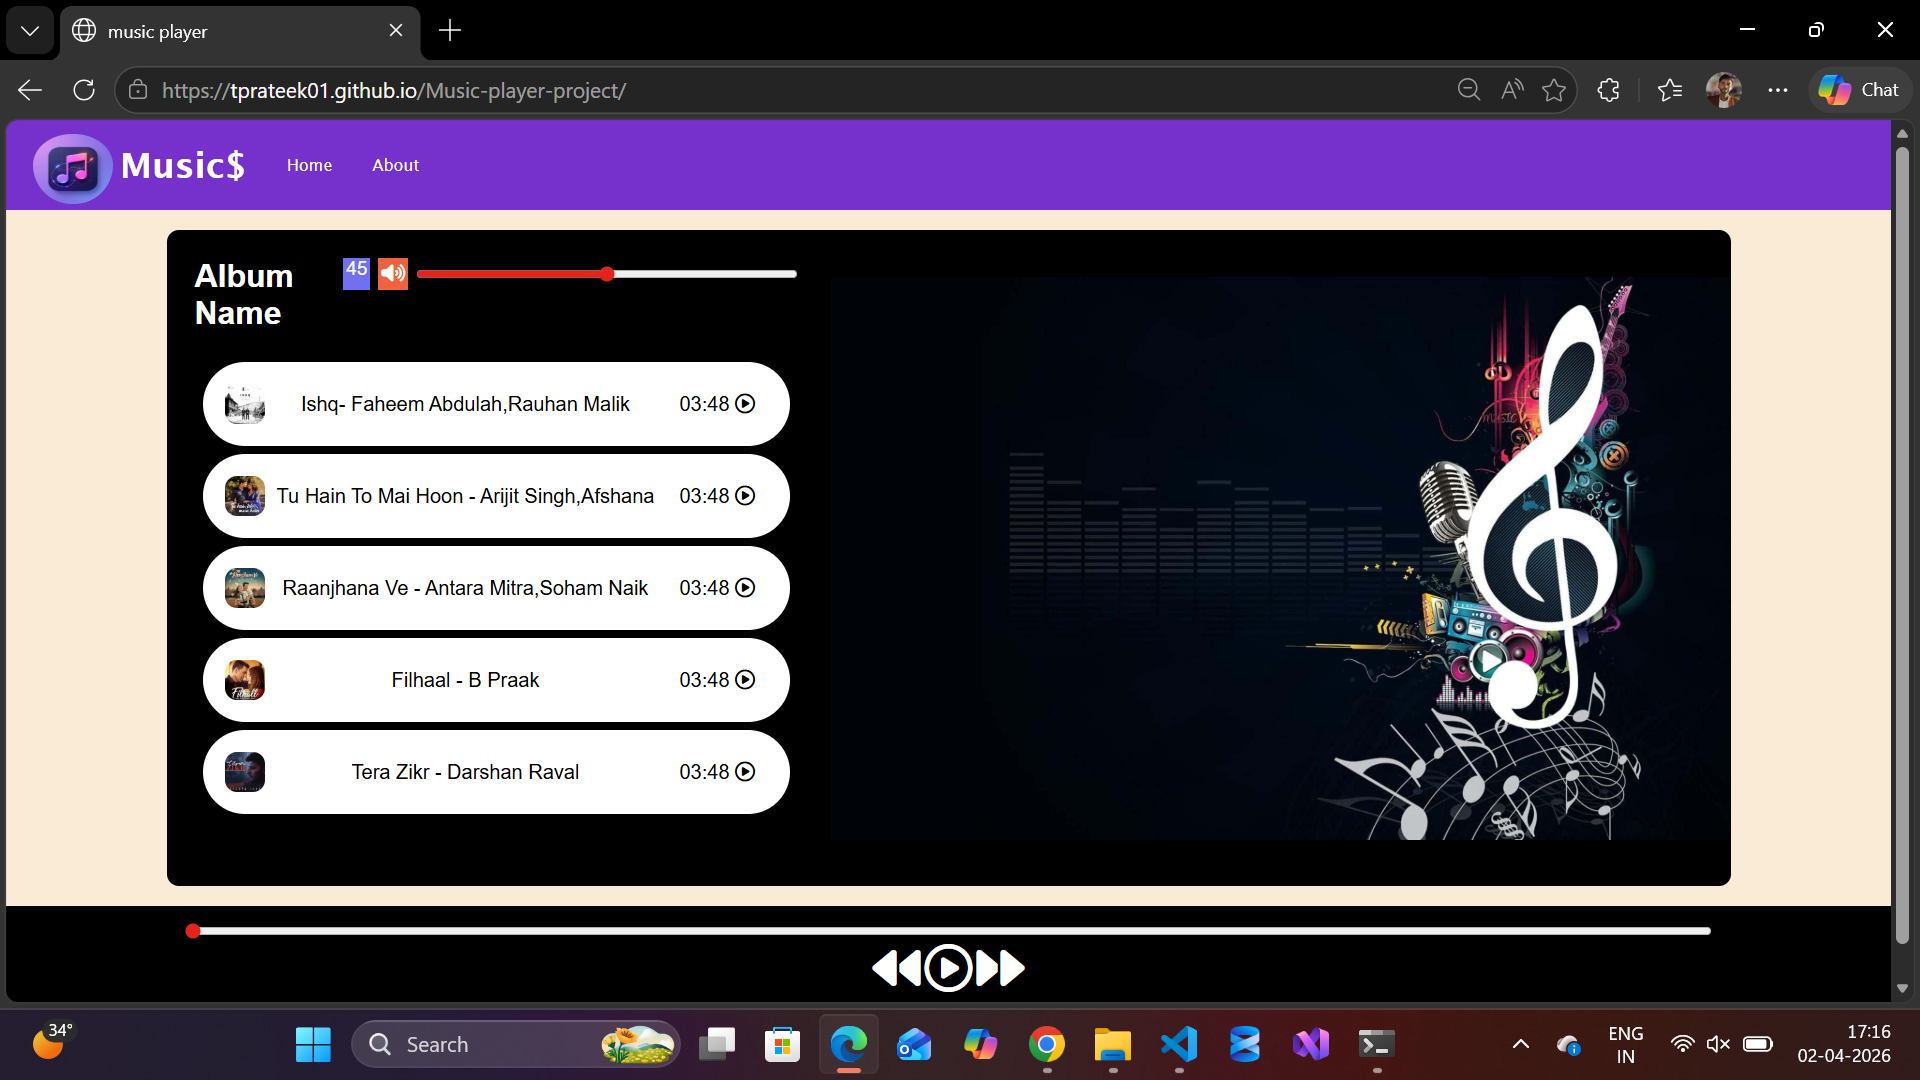
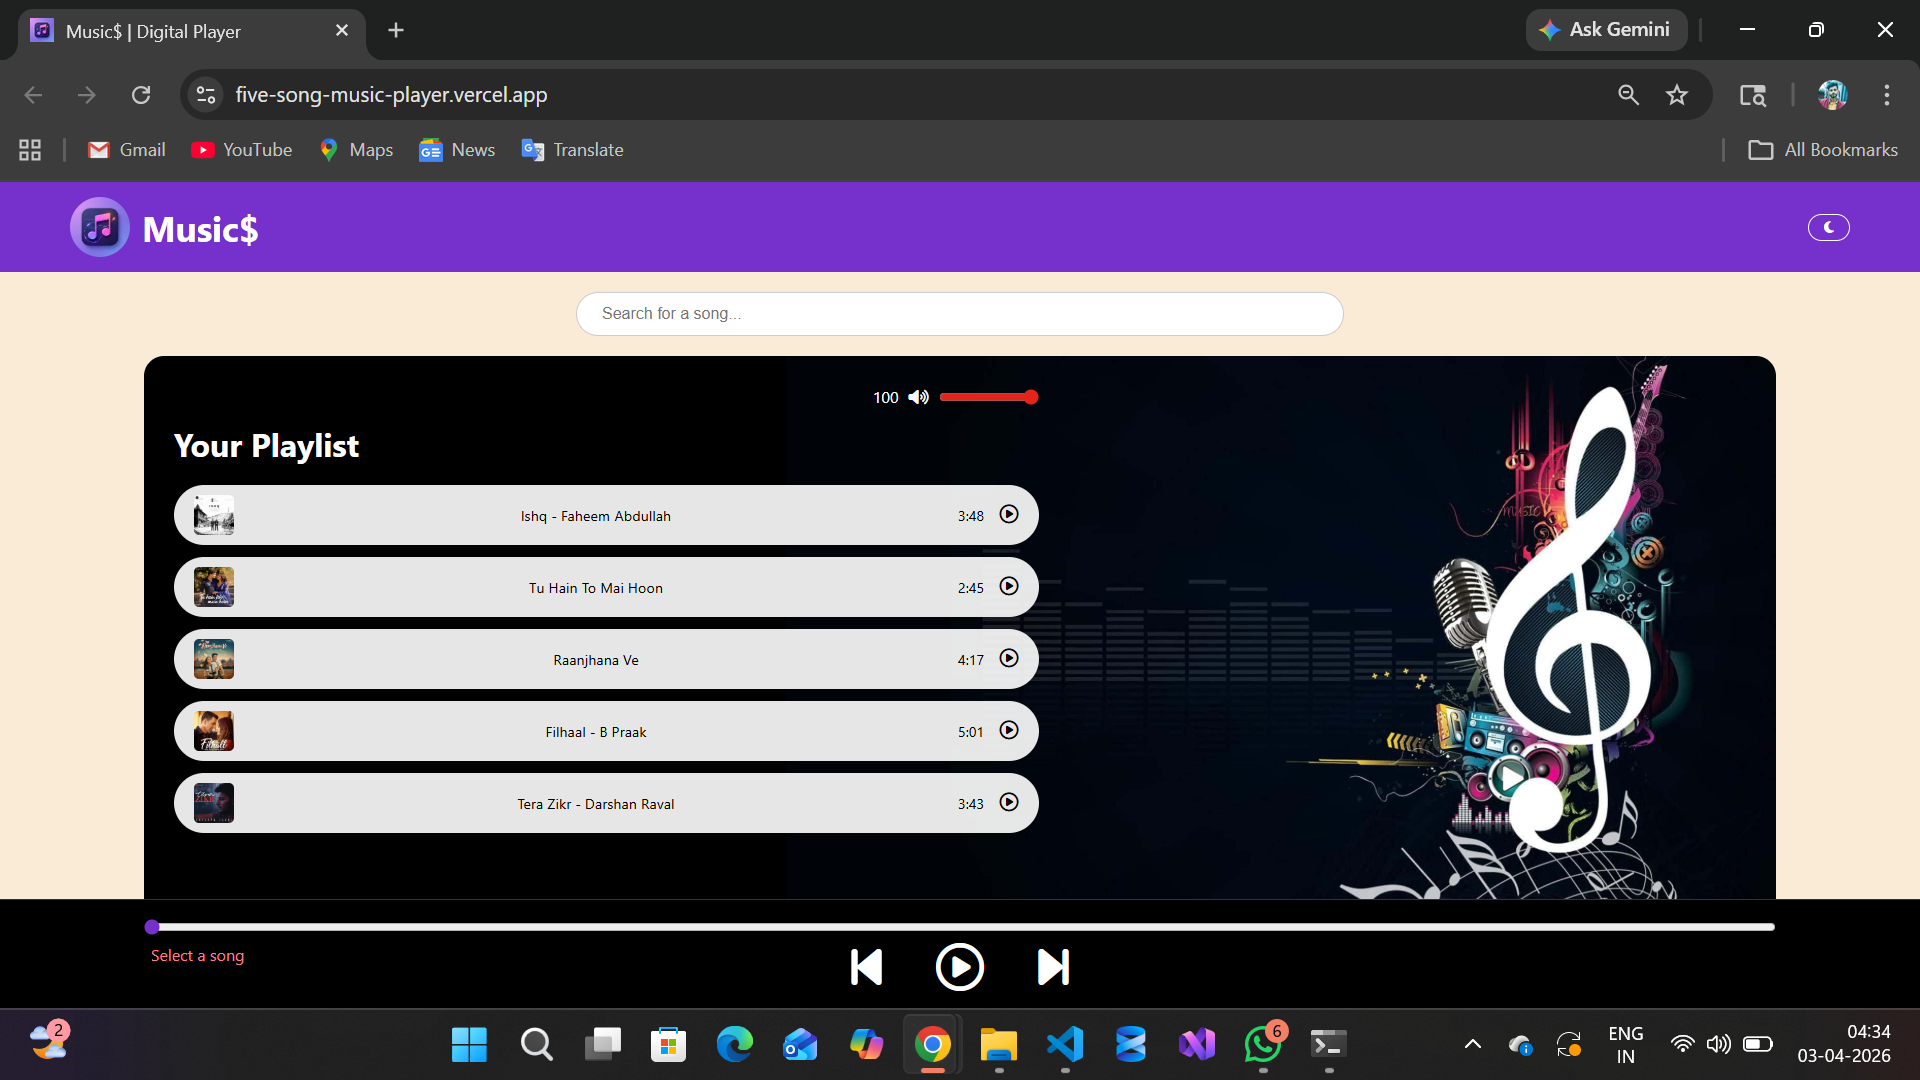
Images and links changed of projects

diff --git a/src/sections/Projects.jsx b/src/sections/Projects.jsx
@@ -13,10 +13,10 @@ const Projects = () => {
       tags: ["React.js", "MongoDB", "Node.js", "Express.js"] 
     },
     {
-      title: "Calculator Pro",
+      title: "Basic Calculator",
       description: "A sleek, functional basic calculator built with HTML, CSS, and JavaScript. Features a clean UI and responsive design.",
       githubLink: "https://github.com/tprateek01/calculator-pro",
-      liveLink: "https://tprateek01.github.io/calculator-pro/",
+      liveLink: "https://basic-functionality-calculator.vercel.app/",
       image: "/project-images/Calculator.png",
       tags: ["HTML", "CSS", "JavaScript"]
     },
@@ -24,7 +24,7 @@ const Projects = () => {
       title: "Music Player",
       description: "A custom web-based music player featuring play/pause functionality, track seeking, and a dynamic interface.",
       githubLink: "https://github.com/tprateek01/Music-player-project",
-      liveLink: "https://tprateek01.github.io/Music-player-project/",
+      liveLink: "https://five-song-music-player.vercel.app/",
       image: "/project-images/MusicPlayer.png",
       tags: ["JavaScript", "HTML", "CSS"]
     },
